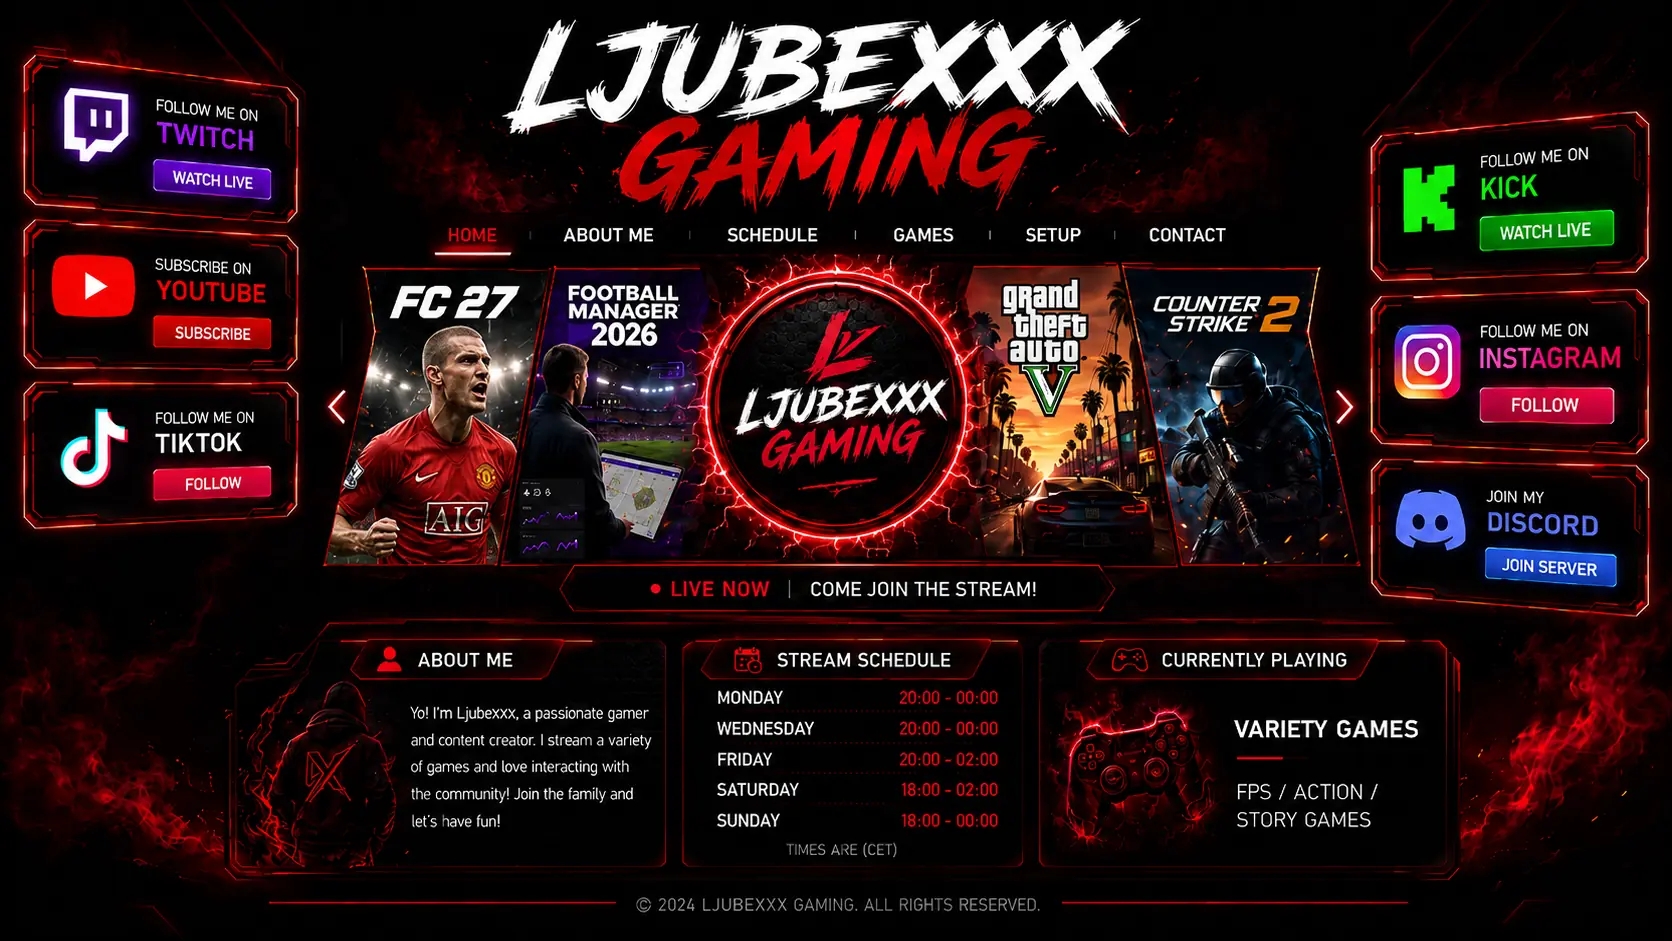
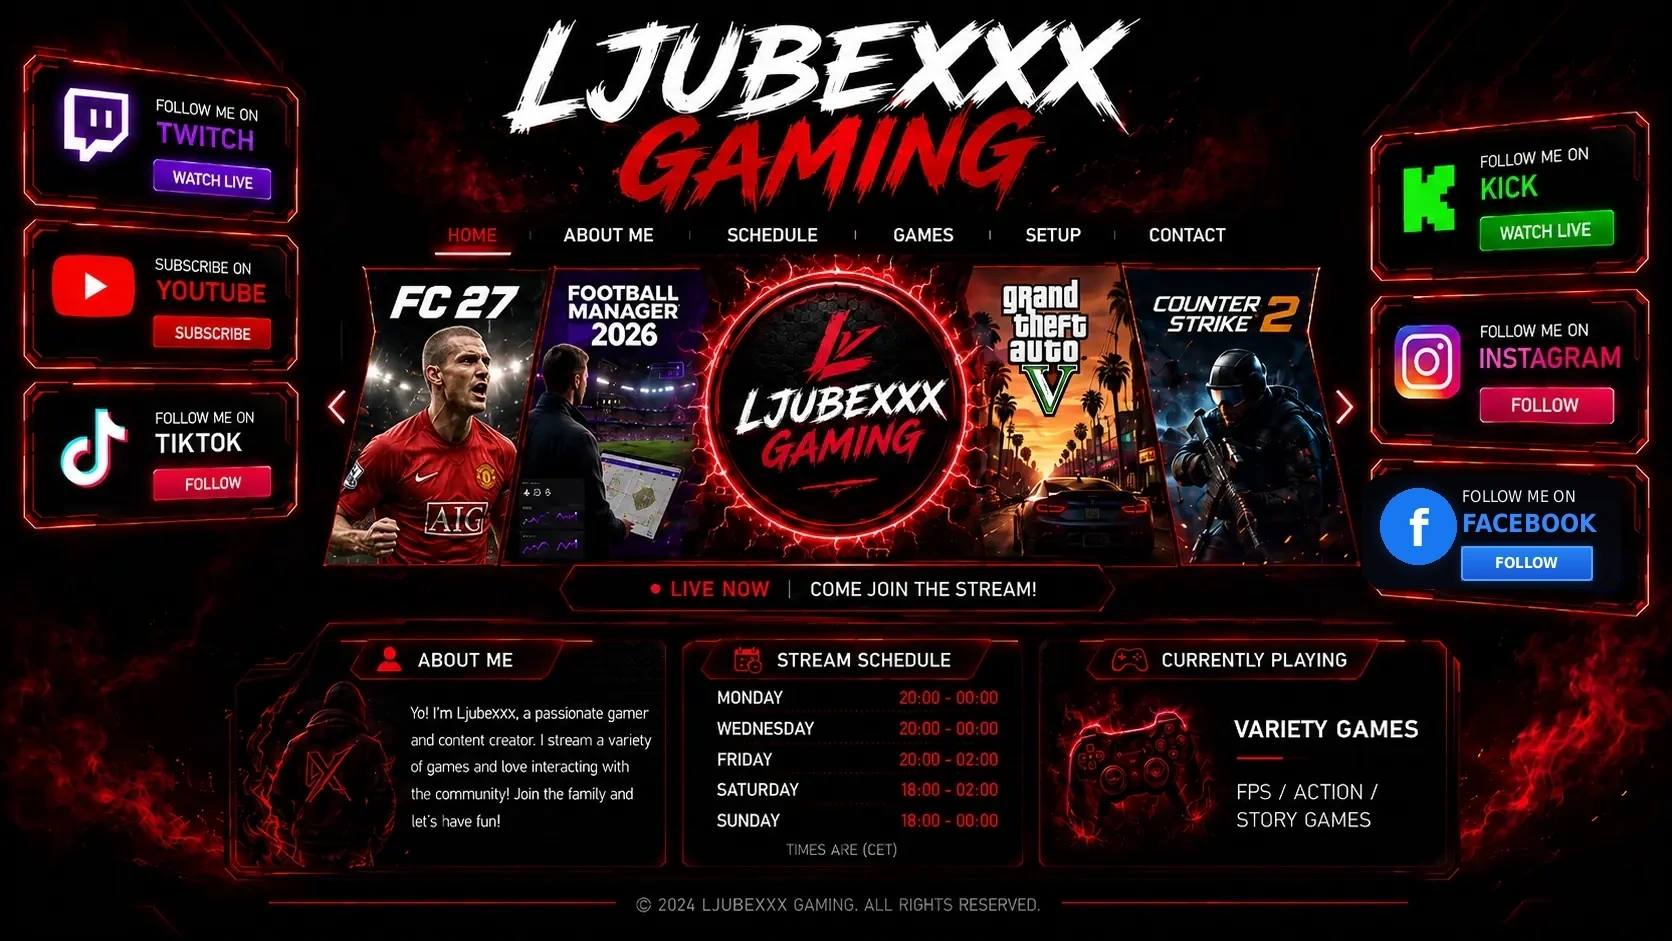
ljubexxx-github-ready-FIXED

diff --git a/site/style.css b/site/style.css
@@ -16,12 +16,6 @@
 .hs-kick{left:80.7%;top:11.4%;width:17.3%;height:18.0%}
 .hs-instagram{left:80.7%;top:30.3%;width:17.3%;height:16.7%}
 .hs-facebook{left:80.7%;top:48.1%;width:17.3%;height:16.9%}
-.facebook-card{overflow:hidden;background:linear-gradient(145deg,#050507 0%,#090a0f 74%,#07152c 100%);border:2px solid #ff173d;clip-path:polygon(5% 0,95% 0,100% 10%,100% 90%,95% 100%,5% 100%,0 90%,0 10%);box-shadow:inset 0 0 0 2px rgba(255,23,61,.22),inset 0 0 30px rgba(24,119,242,.11),0 0 14px rgba(255,23,61,.28)}
-.facebook-card::before{content:"";position:absolute;inset:5%;border:1px solid rgba(255,55,84,.4);clip-path:polygon(5% 0,95% 0,100% 10%,100% 90%,95% 100%,5% 100%,0 90%,0 10%);pointer-events:none}
-.facebook-card::after{content:"";position:absolute;left:44%;right:7%;bottom:10%;height:22%;border:1px solid #2f8cff;border-radius:3px;background:linear-gradient(#1d73e8,#0d4fae);box-shadow:0 0 12px rgba(24,119,242,.75);pointer-events:none}
-.fb-icon{position:absolute;left:8.5%;top:26%;width:24%;aspect-ratio:1;border-radius:50%;display:grid;place-items:center;background:#1877f2;color:#fff;font-family:Arial,Helvetica,sans-serif;font-weight:900;font-size:clamp(28px,3.15vw,56px);line-height:1;box-shadow:0 0 17px rgba(24,119,242,.8);padding-top:9%}
-.fb-copy{position:absolute;left:43.5%;top:23%;display:flex;flex-direction:column;line-height:1.02;text-shadow:0 1px 2px #000}.fb-copy small{color:#f1f1f3;font-size:clamp(7px,.78vw,13px);font-weight:700;letter-spacing:.035em}.fb-copy strong{margin-top:4%;color:#2f8cff;font-size:clamp(13px,1.45vw,25px);font-weight:900;letter-spacing:.02em}
-.fb-cta{position:absolute;z-index:2;left:44%;right:7%;bottom:10%;height:22%;display:grid;place-items:center;color:#fff;font-size:clamp(8px,.86vw,14px);font-weight:900;letter-spacing:.025em}
 
 /* Navigation links */
 .nav-hot{top:21.7%;height:5.3%}

diff --git a/site/index.html b/site/index.html
@@ -19,11 +19,7 @@
     <a class="hotspot social hs-tiktok" data-social="tiktok" aria-label="Open TikTok"></a>
     <a class="hotspot social hs-kick" data-social="kick" aria-label="Open Kick"></a>
     <a class="hotspot social hs-instagram" data-social="instagram" aria-label="Open Instagram"></a>
-    <a class="hotspot social hs-facebook facebook-card" data-social="facebook" aria-label="Open Facebook">
-      <span class="fb-icon" aria-hidden="true">f</span>
-      <span class="fb-copy"><small>FOLLOW ME ON</small><strong>FACEBOOK</strong></span>
-      <span class="fb-cta">FOLLOW</span>
-    </a>
+    <a class="hotspot social hs-facebook" data-social="facebook" aria-label="Open Facebook"></a>
 
     <!-- navigation hotspots -->
     <a class="hotspot nav-hot nav-home" href="#home" aria-label="Home"></a>

diff --git a/site/config.js b/site/config.js
@@ -7,7 +7,7 @@ window.LJUBE_CONFIG = {
   socials: {
     twitch: {
       label: "Twitch",
-      url: "https://www.twitch.tv/ljubisa_vacli",
+      url: "https://www.twitch.tv/ljubexxxgamingtv",
       cta: "WATCH LIVE",
       eyebrow: "FOLLOW ME ON",
       enabled: true
@@ -21,7 +21,7 @@ window.LJUBE_CONFIG = {
     },
     tiktok: {
       label: "TikTok",
-      url: "https://www.tiktok.com/@ljubexxxgamingstream",
+      url: "https://www.tiktok.com/@ljubexxxgamingtv",
       cta: "FOLLOW",
       eyebrow: "FOLLOW ME ON",
       enabled: true
